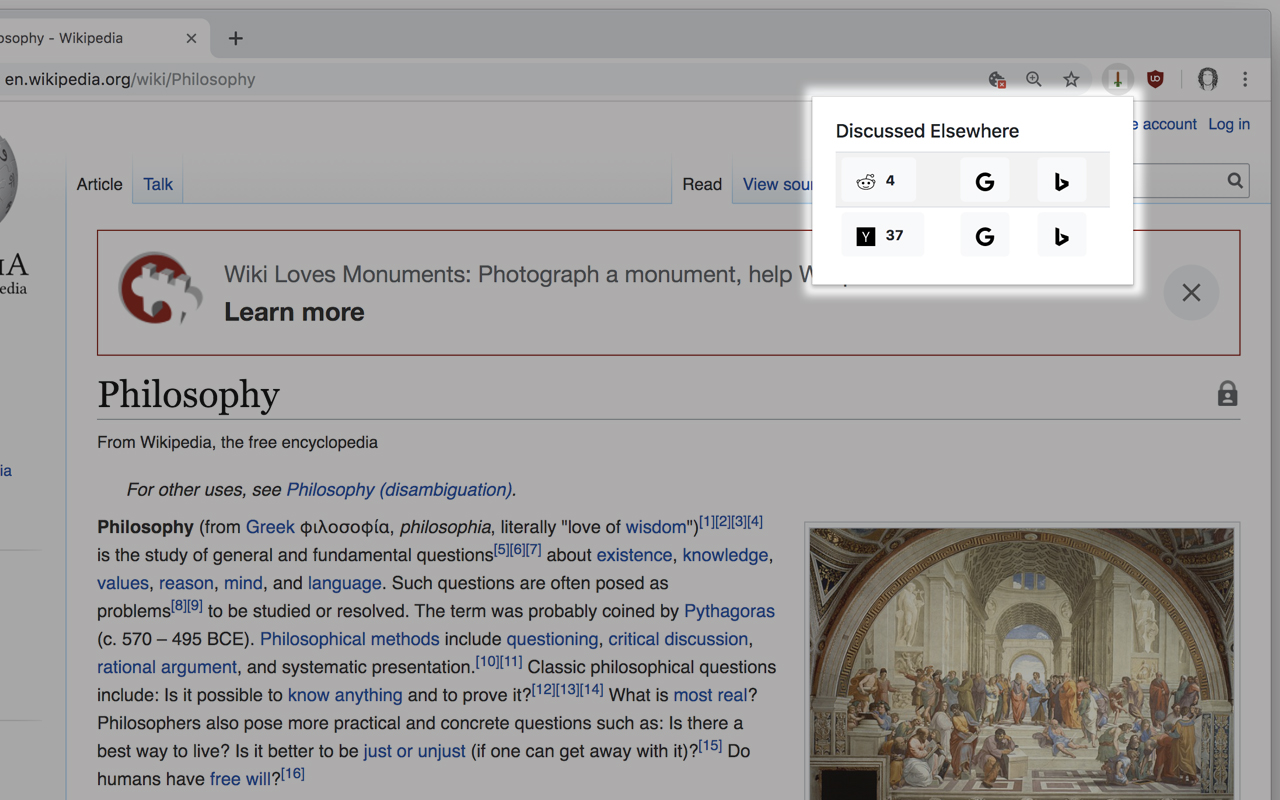
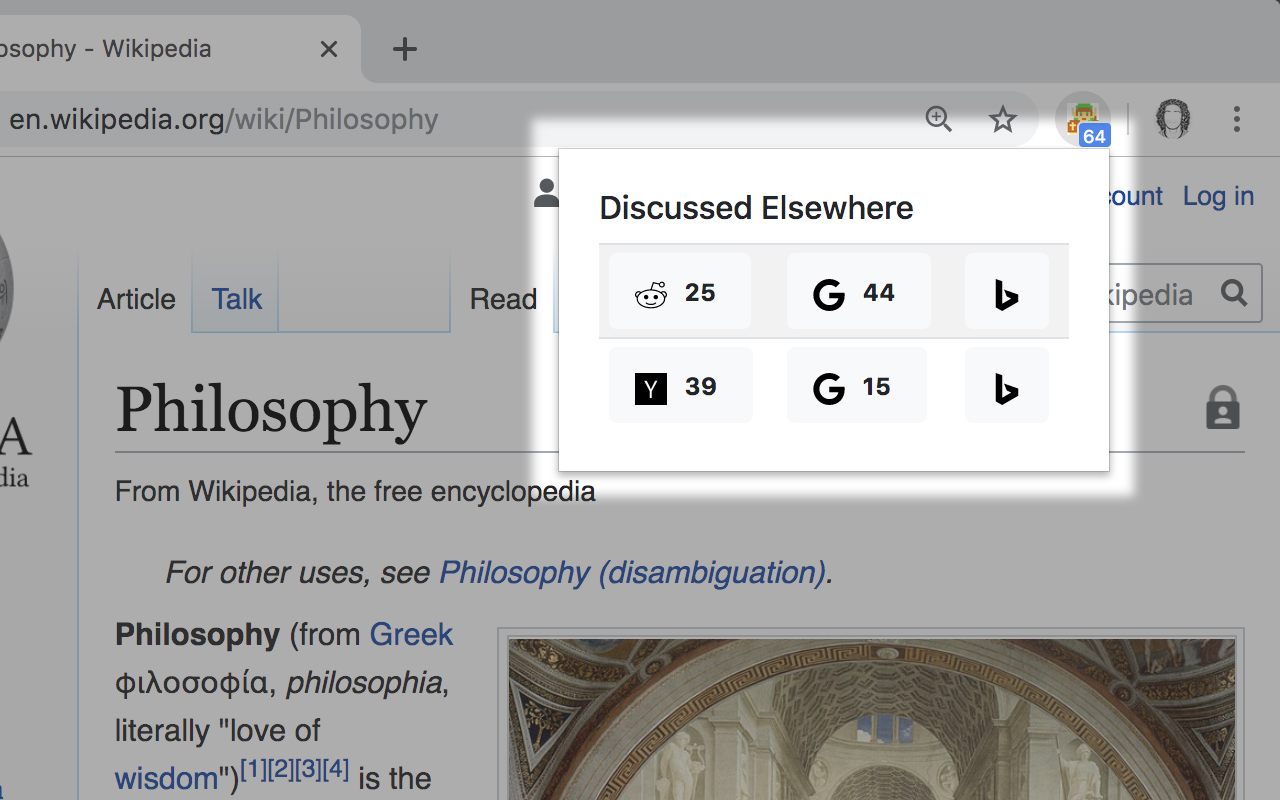
Bump to 1.4.0 with updated images

diff --git a/release_notes.md b/release_notes.md
@@ -1,5 +1,8 @@
 # Release Notes
 
+## 1.4.0
+* New icon and screenshots
+
 ## 1.3.0
 * Badge now updates on page reloads
 
